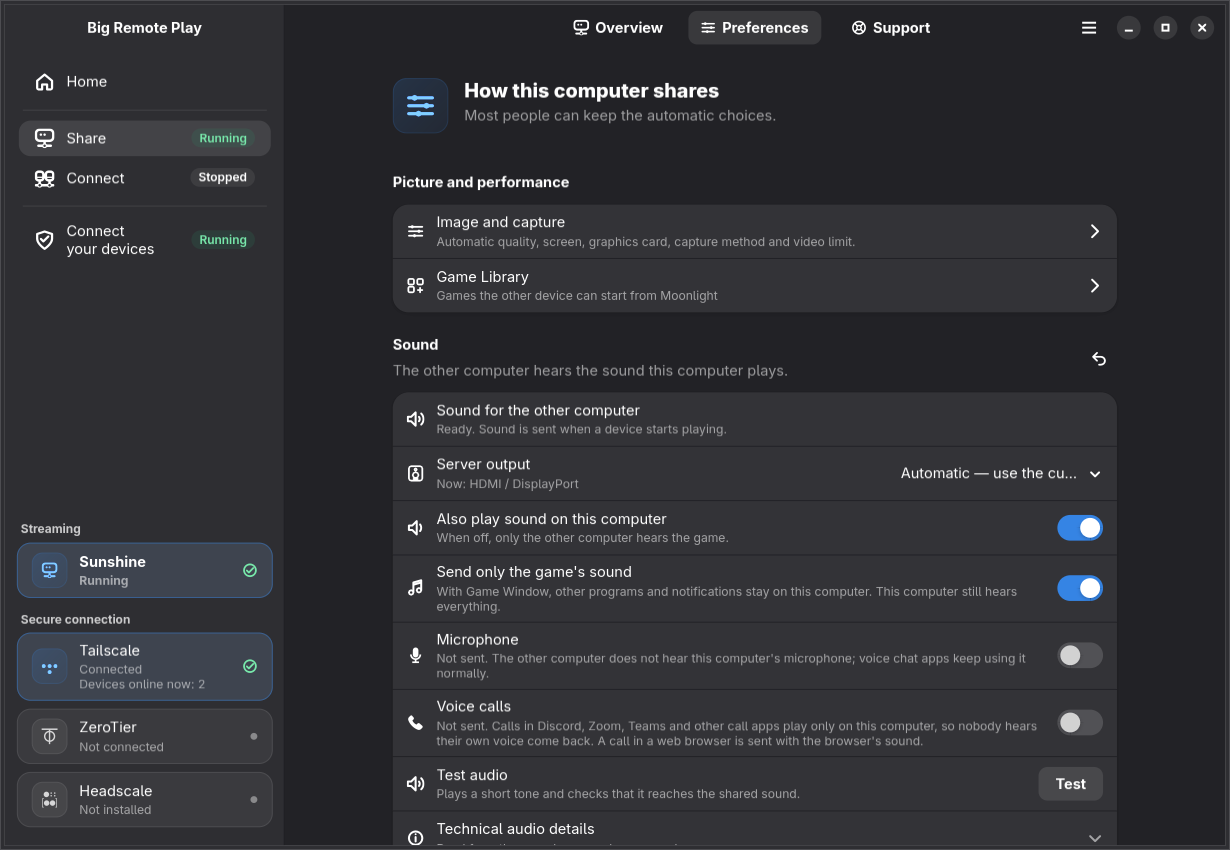
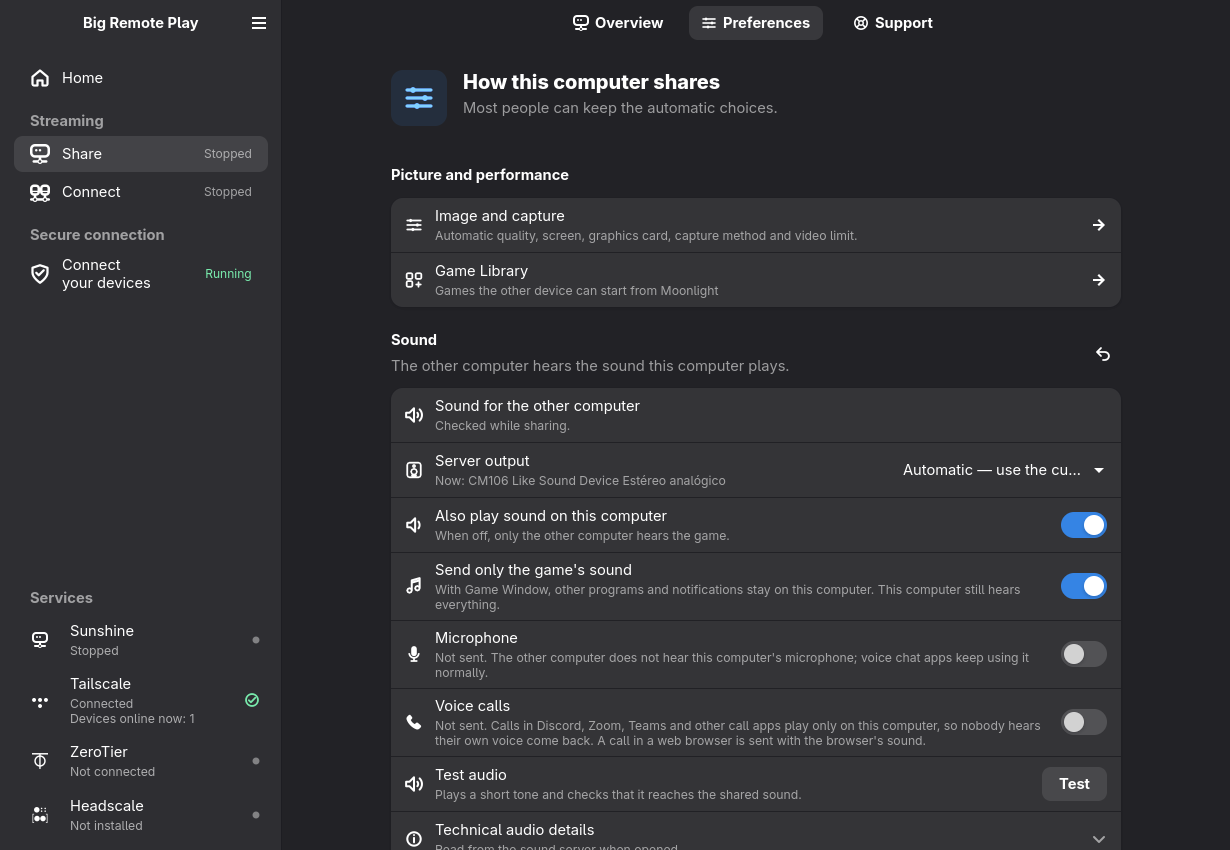
redesign: aligned sidebar headings in RTL, new screenshots and design notes
Sidebar headings use logical margins in code: CSS margins are physical in
GTK, so they sat off the row icons in right-to-left languages.

Screenshots are regenerated from the real app with fictional computers
and networks (dark, light, Gamer, Brazilian Portuguese). The visual design
and service-row documents describe the AshyWall-based language, the user
guide says where the menu is now, and docs/redesign records the audit,
the decisions and the before/after measurements.

diff --git a/usr/share/big-remote-play/ui/style.css b/usr/share/big-remote-play/ui/style.css
@@ -153,7 +153,6 @@
 /* As in AshyWall: a native navigation list with section headings, the state
  * of a task as quiet text at the end of its row (like a count), and the
  * services as ordinary rows, not cards. */
-.brp-sidebar-heading { margin: 14px 12px 6px 22px; }
 .state-pill.brp-nav-state, .state-pill.brp-nav-state.offline {
     padding: 0; background: none; font-weight: 400; color: alpha(currentColor, 0.55);
 }

diff --git a/src/big_remote_play/ui/components.py b/src/big_remote_play/ui/components.py
@@ -46,7 +46,9 @@ def name_icon_button(button: Gtk.Button, label: str, description: str = "") -> G
 
 def sidebar_heading(text: str) -> Gtk.Label:
     """A quiet group heading in the sidebar, as in AshyWall (heading + dim)."""
-    label = Gtk.Label(label=text, xalign=0, wrap=True, accessible_role=Gtk.AccessibleRole.HEADING)
+    # Logical margins (start/end) so the heading lines up with the row icons
+    # in right-to-left languages too; CSS margins in GTK are physical.
+    label = Gtk.Label(label=text, xalign=0, wrap=True, accessible_role=Gtk.AccessibleRole.HEADING, margin_start=22, margin_end=12, margin_top=14, margin_bottom=6)
     label.add_css_class("heading")
     label.add_css_class("dim-label")
     label.add_css_class("brp-sidebar-heading")

diff --git a/README.md b/README.md
@@ -59,24 +59,24 @@ There is no proprietary game catalog and no requirement that the game came from 
 
 <table>
   <tr>
-    <td width="50%"><img src="docs/screenshots/share.png" alt="Share while sharing: the Sharing badge, what is being shared and the sound state, a large Stop sharing button, then Pair a new device with a four-digit PIN field and Approve, and Connected now saying no one is playing yet"><br><sub><b>Share</b>: the state in words, one large button, and the PIN field always in view.</sub></td>
-    <td width="50%"><img src="docs/screenshots/pairing.png" alt="New connection request dialog over Share: Living room PC wants to connect, a PIN field, the time left, and Approve, Reject and Not now"><br><sub><b>New connection request</b>: opens by itself when a device asks to pair.</sub></td>
+    <td width="50%"><img src="docs/screenshots/connect.png" alt="Connect: Choose a computer with six computer cards in two columns, some on the local network and some over Tailscale, each saying Sharing found or Offline; an offline computer has a neutral icon; the sidebar lists Services with Moonlight Ready and Tailscale Connected"><br><sub><b>Connect</b>: each computer is a card that says where it is and whether it is sharing.</sub></td>
+    <td width="50%"><img src="docs/screenshots/share.png" alt="Share before sharing: Share from this PC, Stopped, What to share with the source Full Desktop, a Start sharing button, then Pair a new device with a four-digit PIN field and Approve, and Image and capture"><br><sub><b>Share</b>: the state in words, one main button and the PIN field always in view.</sub></td>
   </tr>
   <tr>
-    <td><img src="docs/screenshots/connect.png" alt="Connect: four game computers as cards, two on the local network and two over Tailscale, with the Computers and Advanced options tabs"><br><sub><b>Connect</b>: pick the game computer; other ways to connect are on <b>Advanced options</b>.</sub></td>
-    <td><img src="docs/screenshots/private-network.png" alt="Connect your devices: Tailscale, ZeroTier and Headscale as cards with a switch each; Tailscale is connected with its network, this computer's address and 3 online of 3 devices"><br><sub><b>Connect your devices</b>: each method with a real switch, its address and its devices.</sub></td>
+    <td><img src="docs/screenshots/private-network.png" alt="Connect your devices: Tailscale and ZeroTier connected with their networks, this computer's address and devices, Headscale off, and Advanced links below"><br><sub><b>Connect your devices</b>: each method with a real switch, its address and its devices.</sub></td>
+    <td><img src="docs/screenshots/support.png" alt="Support: Check this computer lists sharing, Moonlight, the desktop session, remote input, mouse pointer, keyring, firewall and video encoding, each with OK, Info or Check; Common problems below"><br><sub><b>Support</b>: read-only checks in plain words, then what to try for common problems.</sub></td>
   </tr>
   <tr>
-    <td><img src="docs/screenshots/support.png" alt="Support: Check this computer lists sharing, Moonlight, the desktop session, remote input, mouse pointer, saved password, firewall and video encoding, each with OK or Info; Common problems below"><br><sub><b>Support</b>: read-only checks in plain words, then what to try for common problems.</sub></td>
+    <td><img src="docs/screenshots/preferences.png" alt="Share Preferences: How this computer shares, Picture and performance with Image and capture and Game Library, then Sound with the output, play sound on this computer, send only the game's sound, Microphone and Voice calls"><br><sub><b>Preferences</b>: grouped by purpose; most people keep the automatic choices.</sub></td>
+    <td><img src="docs/screenshots/connect-pt-BR.png" alt="Connect in Brazilian Portuguese: Escolha um computador, with the sidebar headings Transmissão, Conexão segura and Serviços"><br><sub><b>32 languages</b>: here in Brazilian Portuguese.</sub></td>
+  </tr>
+  <tr>
+    <td><img src="docs/screenshots/home-light.png" alt="Home in the Light appearance"><br><sub><b>Light</b>: Automatic follows the system; Light and Dark can be forced.</sub></td>
+    <td><img src="docs/screenshots/home-gamer.png" alt="Home in the Gamer appearance: violet and cyan tones over the same layout, with a highlighted header panel"><br><sub><b>Gamer appearance</b>: a dark, colorful preset over the same layout.</sub></td>
+  </tr>
+  <tr>
+    <td><img src="docs/screenshots/pairing.png" alt="New connection request dialog over Share: Living room PC wants to connect, a PIN field, the time left, and Approve, Reject and Not now"><br><sub><b>New connection request</b>: opens by itself when a device asks to pair.</sub></td>
     <td><img src="docs/screenshots/stream-lost.png" alt="The connection to the game PC was lost: the network could not carry 12 Mbps, the delay reached 372 ms; buttons Lower quality and connect again, and Close"><br><sub><b>A dropped stream, explained</b>: and one button to try again at a rate the network carries.</sub></td>
-  </tr>
-  <tr>
-    <td><img src="docs/screenshots/preferences.png" alt="Share Preferences: Picture and performance with Image and capture and Game Library, then Sound with the output, play sound on this computer, send only the game's sound, Microphone and Voice calls off, and Test audio"><br><sub><b>Preferences</b>: grouped by purpose; most people keep the automatic choices.</sub></td>
-    <td><img src="docs/screenshots/share-pt-BR.png" alt="Share while sharing, in Brazilian Portuguese: Compartilhando, Parar compartilhamento and Parear um novo dispositivo"><br><sub><b>32 languages</b>: here in Brazilian Portuguese.</sub></td>
-  </tr>
-  <tr>
-    <td><img src="docs/screenshots/home-gamer.png" alt="Home in the Gamer appearance: Start with the guided setup, then Share and Connect cards in purple and cyan tones"><br><sub><b>Gamer appearance</b>: a dark, colorful preset next to Automatic, Light and Dark.</sub></td>
-    <td><img src="docs/screenshots/share-gamer.png" alt="Share while sharing in the Gamer appearance"><br><sub><b>Share</b> in the Gamer appearance.</sub></td>
   </tr>
 </table>
 
@@ -174,6 +174,7 @@ Technical details, the test plan and measured results: [touch controls](docs/tou
 
 This release turns the phone into a controller. It was checked on a real phone (Android, Redmi Note 11 Pro 5G) streaming a Wayland desktop (wlmaker, three monitors) with Shadow of the Tomb Raider through Steam; the full test plan, with what is still pending, is in [touch controls](docs/touch/08-validacao-android.md).
 
+- **A calmer, native look** — the window now follows AshyWall's design: the menu at the top of the sidebar, places grouped under **Streaming** and **Secure connection**, each task's state as quiet text, services as ordinary rows, and plain native cards without gradients. Every page, setting and flow is the same ([design notes](docs/redesign/02-decisoes.md)).
 - **Touch controls** — **Share → Preferences → Mouse, keyboard and controllers → Touch controls** opens the Big WM Virtual Keyboard's on-screen controller when a phone starts playing, releases it when a player leaves and closes it with the last one. Several fingers press several buttons; nothing becomes a mouse click ([details](#your-phone-as-a-controller-multi-touch)).
 - **Big Remote Play Controller for Android** — a Moonlight 12.2 build that sends every finger as its own touch, installs next to the official Moonlight and picks a resolution the phone can decode instead of failing with error -5 ([download](https://github.com/ruscher/big-remote-play/releases/tag/controller-v12.2-brpc2)).
 - **Host has priority keeps the controller working** — the host's mouse and keyboard still pause remote input, but never the touchscreen that drives the on-screen controller ([details](docs/host-input-priority.md)).

diff --git a/docs/visual-design.md b/docs/visual-design.md
@@ -6,6 +6,38 @@ chooses the appearance in the application menu (**Appearance**: **Gamer**,
 [user guide](user-guide.md#choose-the-appearance). UI rules for contributors
 are in [`src/big_remote_play/ui/AGENTS.md`](../src/big_remote_play/ui/AGENTS.md).
 
+## The base design (Automatic, Light, Dark)
+
+Big Remote Play follows the visual language of
+[AshyWall](https://github.com/big-comm/ashywall): native libadwaita, the
+system font and text scale, one accent colour and no decoration. Its rules:
+
+- **Window.** `Adw.NavigationSplitView`. The sidebar header carries the app
+  name and the application menu; the content header carries only the page's
+  title or its tabs (`Adw.ViewSwitcher`, moved to a bottom bar when narrow).
+- **Sidebar.** A `navigation-sidebar` list: **Home**, then **Streaming**
+  (Share, Connect) and **Secure connection** (Connect your devices), each group
+  under a quiet `heading dim-label` title. A task's state is quiet text at the
+  end of its row, coloured only when something is running or needs attention.
+  Below, **Services** lists Sunshine or Moonlight and the private-network
+  methods as ordinary rows ([service rows](service-status-cards.md)).
+- **Surfaces.** Libadwaita's `card` look for every container the app draws
+  itself (`@card_bg_color`, the Adwaita card shadow, 12px radius). A card is
+  something you act on or a panel of related controls; text sits on the page.
+  Home's brand header has no card; Connect's computers are cards placed
+  straight on the page, never a card holding cards.
+- **Interaction.** Hover `alpha(currentColor, 0.05)`, press `0.09`, keyboard
+  focus a 2px accent ring on `:focus-visible` only. One suggested or
+  destructive button per state; everything else is a flat or standard button.
+- **Icons.** Monochrome symbolic glyphs everywhere; a flat accent chip only for
+  a page heading or a major choice. A computer that does not answer gets a
+  neutral chip next to the word *Offline*.
+
+Tokens are Adwaita's named colours, so light, dark and high contrast follow
+the system. `style.css` defines no fixed colours except the card shadow and
+draws no gradients, glows or animations; high contrast replaces shadows with
+full-contrast borders.
+
 ## The Gamer appearance
 
 **Gamer** is a dark, static preset layered over the normal Big Remote Play
@@ -43,24 +75,24 @@ meet WCAG AA for normal text.
 
 ## Component mapping
 
-- The Home page uses a quiet violet wash. Its hero carries the only large
-  violet-magenta-cyan signature and keeps copy on a solid-enough dark surface.
+- The Home page uses a quiet violet wash. Its header becomes a panel (the base
+  design draws none) with the only large violet-magenta-cyan signature.
 - Share uses violet/blue; Connect uses cyan. Both retain text, icons and status
   words, so colour never carries state alone.
 - Guided setup has a stronger edge and signature highlight, while its choices
   continue to use native buttons and focus behaviour.
 - Navigation rows remain still on hover. Selection adds a three-pixel violet
-  inset indicator, a tinted surface, brighter text and icon.
+  inset indicator, a tinted surface, brighter text and icon. Section headings
+  and task states use the secondary text colour; Running is green.
 - Suggested actions use a violet-to-blue gradient. Destructive actions remain
   red. Cards, lists, dialogs and popovers use one restrained border/elevation
   family with 12–22px radii according to hierarchy.
 - Switches, progress bars and focus use violet/cyan accents with visible knobs,
   tracks and outlines. Status pills retain their semantic success, warning and
   neutral colours plus their existing icon and text.
-- Service status cards repeat the tone rules of the
-  [base design](service-status-cards.md#visual-and-accessibility-contract) in
-  this palette: an active service is lit with a cyan-violet tint, a cyan border
-  and a cyan icon tile; the others stay quiet.
+- Service rows keep the base structure
+  ([service rows](service-status-cards.md#visual-and-accessibility-contract));
+  Gamer only lights the active service's icon in cyan.
 
 ## Motion, accessibility and adaptation
 
@@ -100,6 +132,6 @@ hicolor index. Tests check both the local assets and that
 `adw-expander-arrow-symbolic` still resolves (`tests/test_guided_home_review.py`).
 
 Keep rounded native groups, flat main toolbar styling and a distinct sidebar
-surface. The header title stack must not reserve the width of hidden desktop
+surface. The application menu lives in the sidebar header. The header title stack must not reserve the width of hidden desktop
 tabs when the compact title is active. In small windows the same task tabs use
 the native lower view switcher.

diff --git a/docs/redesign/03-validacao.md b/docs/redesign/03-validacao.md
@@ -1,0 +1,51 @@
+# 03 — Validação, desempenho e limitações
+
+## Inspeção visual (aplicativo real, Xvfb)
+
+| Situação | Resultado |
+|---|---|
+| Início, Compartilhar, Conectar, Conecte seus dispositivos, página da Tailscale, Preferências, Suporte, Opções avançadas | revisados em claro e escuro |
+| Gamer (Início, Conectar, Compartilhar, Preferências, Suporte, redes) | mesma estrutura, paleta própria; o cabeçalho do Início mantém o painel |
+| 1230 × 850 | duas colunas de computadores, abas no cabeçalho |
+| 800 × 700 | uma coluna; abas descem para a barra inferior |
+| 420 × 820 | barra lateral recolhe, botão **Voltar**, sem rolagem horizontal |
+| pt-BR | títulos e estados traduzidos ([print](../screenshots/connect-pt-BR.png)) |
+| Hebraico (RTL) | janela espelhada; os títulos da barra lateral usavam margem CSS (física) e ficavam desalinhados — passaram a margens lógicas no código |
+| Japonês (CJK) | quebra de linha correta no título do Início e nas linhas |
+| Alto contraste (`ADW_DEBUG_HIGH_CONTRAST=1`) | sombras trocadas por bordas de contraste total; estados com texto em cor plena |
+
+Os prints do README foram gerados do aplicativo real com dados fictícios
+(computadores "Living room PC", redes `example.com`, `100.64.x`). No gerador,
+as setas dos cartões saem como `→`; no aplicativo instalado, como `›`
+(a mesma ação, com o glifo `go-next-symbolic` resolvido em outra ordem de
+temas de ícones).
+
+## Desempenho (mesmo ambiente da linha de base)
+
+| Medida | Antes | Depois |
+|---|---|---|
+| Primeira janela | 0,56–0,60 s | 0,57–0,61 s |
+| Memória (RSS) parado | 131–133 MB | 131–134 MB |
+| CPU parado (10 s) | 0–0,8 % | 0,1–0,5 % |
+| Processos filhos | 2 | 2 |
+| Navegação entre páginas (20 trocas) | mediana 4,34 ms, máx. 12,2 ms | mediana 4,26 ms, máx. 14,0 ms |
+
+Sem regressão. O redesenho não acrescenta temporizadores, processos nem
+animações (as linhas de serviço perderam a transição e a animação que tinham).
+
+## Verificações automáticas
+
+`make lint`, `make typecheck` (0 erros), `make check-i18n` (nenhum texto
+novo), `make metadata-check`, `make release-check` e a suíte completa com
+Xvfb + D-Bus: todos passaram (1793 testes, 0 falhas; `release-check` 0 erros,
+0 avisos). Testes atualizados para o contrato novo:
+títulos de grupo na barra lateral (com papel de cabeçalho para leitores de
+tela), um título **Serviços**, linhas de serviço sem movimento.
+
+## Não validado aqui
+
+- KDE Plasma, GNOME e Window Maker X11 reais, escala fracionária e leitor de
+  tela (Orca): só estrutura, CSS e papéis acessíveis foram verificados; falta
+  olhar em cada ambiente.
+- Estado "Compartilhando" com um dispositivo jogando: não foi iniciado
+  compartilhamento real durante a inspeção.

diff --git a/docs/redesign/02-decisoes.md b/docs/redesign/02-decisoes.md
@@ -1,0 +1,51 @@
+# 02 — Sistema visual e decisões por página
+
+As regras permanentes estão em [visual design](../visual-design.md) e em
+[linhas de serviço](../service-status-cards.md). Aqui fica o porquê.
+
+## Sistema visual
+
+- **Uma superfície.** Tudo o que o app desenha (cartões de escolha, painéis de
+  Compartilhar, computadores, estados vazios) usa a aparência `card` do
+  libadwaita: `@card_bg_color`, a sombra de cartão do Adwaita, raio 12px.
+  Removidos todos os gradientes, brilhos e cores por papel.
+- **Um acento.** Compartilhar e Conectar deixaram de ter cores diferentes
+  (azul/verde); o ícone e o texto já os distinguem.
+- **Interação.** Hover `alpha(currentColor, 0.05)`, pressão `0.09`, foco
+  só por teclado (`:focus-visible`). Sem transições nas linhas de serviço.
+- **Tokens** são as cores nomeadas do Adwaita: claro, escuro e alto contraste
+  vêm do sistema. O Gamer continua uma camada (`gamer.css`) sobre a mesma
+  estrutura.
+
+## Navegação e barra lateral
+
+- Menu ☰ no cabeçalho da barra lateral, como no AshyWall; o cabeçalho do
+  conteúdo fica só com o título ou as abas.
+- Grupos com título: **Início** · **Transmissão** (Compartilhar, Conectar) ·
+  **Conexão segura** (Conecte seus dispositivos) · **Serviços**. Os títulos
+  reaproveitam textos já traduzidos nos 32 idiomas: nenhum texto novo.
+- Estado da tarefa como texto discreto no fim da linha (como as contagens do
+  AshyWall), verde só quando algo está rodando.
+- Serviços (Sunshine/Moonlight, Tailscale, ZeroTier, Headscale) viraram linhas
+  comuns da barra lateral, com o estado escrito e um ícone pequeno.
+
+## Páginas
+
+- **Início.** Logo, título, descrição e **Começar com o Assistente Guiado**
+  direto na página; as duas escolhas (Compartilhar, Conectar) são os únicos
+  cartões, porque são o que se clica. O assistente guiado e a verificação de
+  componentes continuam os mesmos.
+- **Compartilhar.** Mesmos painéis e o mesmo fluxo (origem, iniciar, PIN,
+  imagem e captura), agora na superfície única; o botão principal é o
+  `suggested-action`/`destructive-action` nativo, só mais alto.
+- **Conectar.** Os computadores ficam direto na página, em duas colunas, sem o
+  cartão em volta. Um computador *Offline* tem o ícone neutro, além da
+  palavra.
+- **Redes privadas, Preferências, Suporte, diálogos.** Já eram libadwaita
+  nativo; herdam a superfície e o raio novos sem mudança de estrutura.
+
+## O que não mudou, de propósito
+
+Fluxos, contratos com Sunshine/Moonlight/VPNs, o assistente guiado, a
+instalação de dependências, a persistência de preferências e as regras de
+segurança. Nenhum serviço foi reescrito para o redesenho.

diff --git a/docs/service-status-cards.md b/docs/service-status-cards.md
@@ -9,11 +9,15 @@ the most prominent control. Release checks are in
 ## Layout
 
 ```text
-Streaming                         Secure connection
-  Sunshine   (Share)                Tailscale
-  Moonlight  (Connect)              ZeroTier
-                                    Headscale
+Services
+  Sunshine   (Share) or Moonlight (Connect)
+  Tailscale
+  ZeroTier
+  Headscale
 ```
+
+One **Services** heading sits above the first visible row, below the
+navigation (Home · Streaming · Secure connection), as in AshyWall's sidebar.
 
 - **Connect your devices** shows the same cards as Share and Connect: the
   streaming component of the remembered task (Sunshine or Moonlight) and
@@ -125,20 +129,16 @@ account and private addresses are never shown on the card.
 
 ## Visual and accessibility contract
 
-- One 1 px boundary in every state. Active: accent-tinted surface, accent
-  border, accent icon tile and a check icon. Off, missing and checking: neutral
-  surface and a neutral (not faded) icon tile with a small dot. Attention and
-  error: warning/error border and a warning icon.
+- A service is an ordinary sidebar row, not a card: its symbolic icon, its name,
+  the state in words as the subtitle and a small state icon at the end. No
+  border, no tinted surface; hover and press use the sidebar's quiet
+  highlight. Active: a green check icon. Starting or ready: an accent dot.
+  Attention and error: a warning icon. Off, missing and checking: a neutral dot.
 - The state is always written; colour and icon only reinforce it. The
   accessible description is state, second line and service purpose.
-- Keyboard focus draws a separate 2 px ring on `:focus-visible` only. A card
-  that merely holds focus (after a click or a page change) keeps its thin
-  border. The same rule applies to the Home and Guided setup choice cards.
-- Motion: 200 ms colour/border transitions and one 420 ms fading ring when a
-  card becomes active. Nothing loops. `@media (prefers-reduced-motion:
-  reduce)` removes them, and GTK drops them when animations are disabled.
-- High contrast: full-contrast 1 px borders, an inset ring for active cards and
-  full-contrast headings and icons.
-- The **Gamer** appearance (`gamer.css`) repeats the tone rules with its
-  palette: an active card is lit, the rest stay quiet; see
+- Keyboard focus draws a 2 px ring on `:focus-visible` only.
+- Motion: none. A state changes in place, without transitions or animation.
+- High contrast: full-contrast subtitle, state icon and focus ring.
+- The **Gamer** appearance (`gamer.css`) keeps the same rows and lights the
+  active service's icon in cyan; see
   [visual design](visual-design.md#component-mapping).

diff --git a/docs/redesign/01-auditoria.md b/docs/redesign/01-auditoria.md
@@ -1,0 +1,54 @@
+# 01 — Auditoria
+
+Registro do projeto (2026-11-14). O aplicativo não lê nada desta pasta.
+
+## O que foi examinado
+
+- **Big Remote Play** (branch `feat/redesign-ashywall`, a partir de
+  `feat/touch-controls`): `AGENTS.md`, `src/big_remote_play/ui/AGENTS.md`,
+  [visual design](../visual-design.md), `main_window.py`, `host_view.py`,
+  `guest_view.py`, `service_status_card.py`, `components.py`, os dois CSS
+  (`style.css`, `gamer.css`) e os testes que fixam estrutura e estilo.
+  Interface: ~22,7 mil linhas em `ui/`; `host_view.py` sozinho tem 5,5 mil.
+- **AshyWall** (`/home/ruscher/Documentos/Git/ashywall`, `3344884`):
+  `ui/window.py` (barra lateral, cabeçalho, ponto de quebra), `ui/style.css` e
+  as capturas em `docs/screenshots/`.
+
+O aplicativo foi aberto de verdade (sob Xvfb, com `HOME` descartável) em
+claro, escuro e Gamer, a 1230, 800 e 420 px, antes e depois de cada mudança.
+
+## O que o AshyWall faz
+
+- `Adw.NavigationSplitView` (barra lateral 220–280 px, recolhe abaixo de
+  640sp). O cabeçalho da barra lateral tem o nome do app e o menu ☰.
+- Barra lateral `navigation-sidebar` com grupos sob títulos `heading
+  dim-label`; o número de itens de cada lugar fica no fim da linha, apagado.
+- Conteúdo nativo: listas `boxed-list`, cartões só onde se clica, nenhum
+  gradiente. O CSS do app tem ~100 linhas, quase só para a grade de imagens.
+
+## O que afastava o Big Remote Play disso
+
+| Onde | Antes |
+|---|---|
+| Barra lateral | separadores sem nome; estados como etiquetas coloridas; serviços como cartões com borda, fundo tingido e animação |
+| Início | fundo com gradiente; cabeçalho da marca dentro de um cartão com gradiente e borda |
+| Cartões | gradientes, bordas coloridas por papel (Compartilhar azul, Conectar verde), sombras próprias |
+| Conectar | cartões de computador dentro de outro cartão |
+| Menu | no cabeçalho do conteúdo, disputando espaço com as abas |
+
+A base técnica já era a mesma do AshyWall (GTK 4, libadwaita ≥ 1.7,
+`NavigationSplitView`, `ViewSwitcher`, `PreferencesDialog`). Por isso o
+redesenho é de linguagem visual e composição, sem reescrever serviços.
+
+## Linha de base medida
+
+Mesma máquina, Xvfb, `GSK_RENDERER=cairo`, `HOME` descartável, 3 execuções.
+
+| Medida | Antes |
+|---|---|
+| Primeira janela | 0,56–0,60 s |
+| Memória (RSS) parado | 131–133 MB |
+| CPU parado (10 s) | 0–0,8 % |
+| Processos filhos | 2 |
+| Navegação entre páginas | mediana 4,34 ms, máx. 12,2 ms (20 trocas) |
+| Testes | 1793 passaram |

diff --git a/docs/README.md b/docs/README.md
@@ -11,6 +11,7 @@ This directory is the maintained documentation set for Big Remote Play. Start wi
 - [Cloudflare](cloudflare.md) — what DNS, Tunnel and Access can and cannot do for internet play.
 - [VPS and Headscale](vps-headscale.md) — running your own Headscale server.
 - [Controlling the game PC from a phone](mobile-controls.md) — touch gestures, keyboard and leaving the game in Moonlight for Android, iPhone/iPad and computers.
+- [Redesign](redesign/01-auditoria.md) — the move to AshyWall's visual language: audit, decisions per page, measurements and what was not validated (Portuguese).
 - [Touch controls](touch/09-relatorio-final.md) — multi-touch from the phone to the Big WM Virtual Keyboard's on-screen controller: audit, design, tests and the Android test plan (Portuguese).
 - [Several screens](moonlight-multi-monitor.md) — the screen where Moonlight opens and the game PC's shared screen.
 - [Game library](game-library-detection.md) — where installed games are found and how they are added to Moonlight.

diff --git a/docs/user-guide.md b/docs/user-guide.md
@@ -15,7 +15,7 @@ The game runs on the **sharing computer**. The person playing remotely uses the 
 
 ## Choose the appearance
 
-Open the application menu and use **Appearance**. **Gamer** is the dark
+Open the application menu (the ☰ button at the top of the sidebar, next to the app's name; in a narrow window, press **Back** to reach the sidebar first) and use **Appearance**. **Gamer** is the dark
 violet/cyan preset; **Automatic** follows the desktop; **Light** and **Dark**
 force the corresponding system appearance. The choice takes effect immediately
 and is restored the next time Big Remote Play opens. High contrast temporarily
